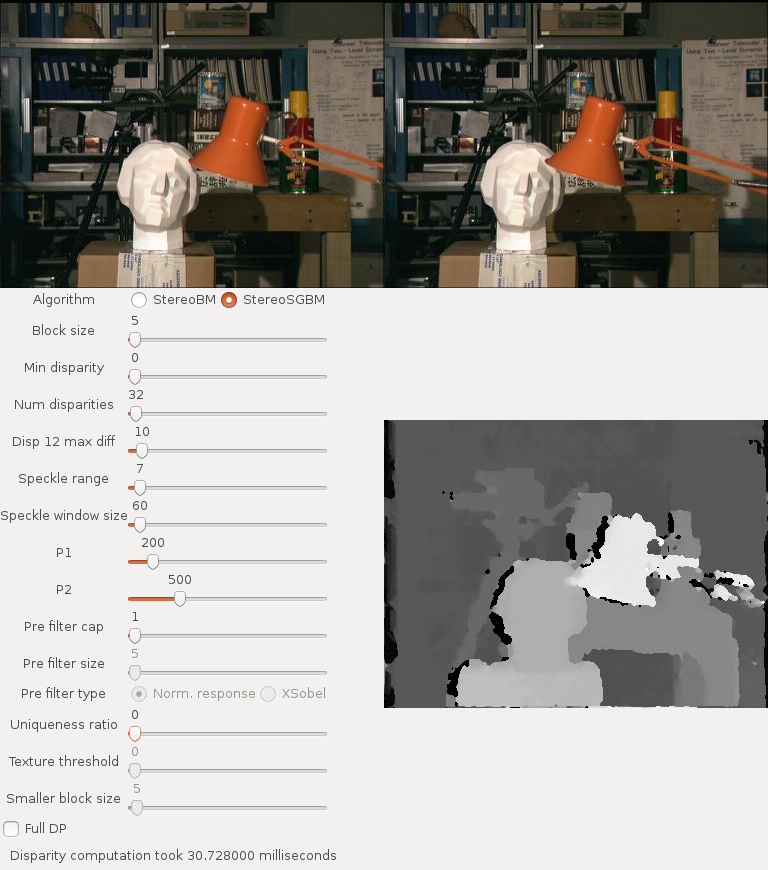
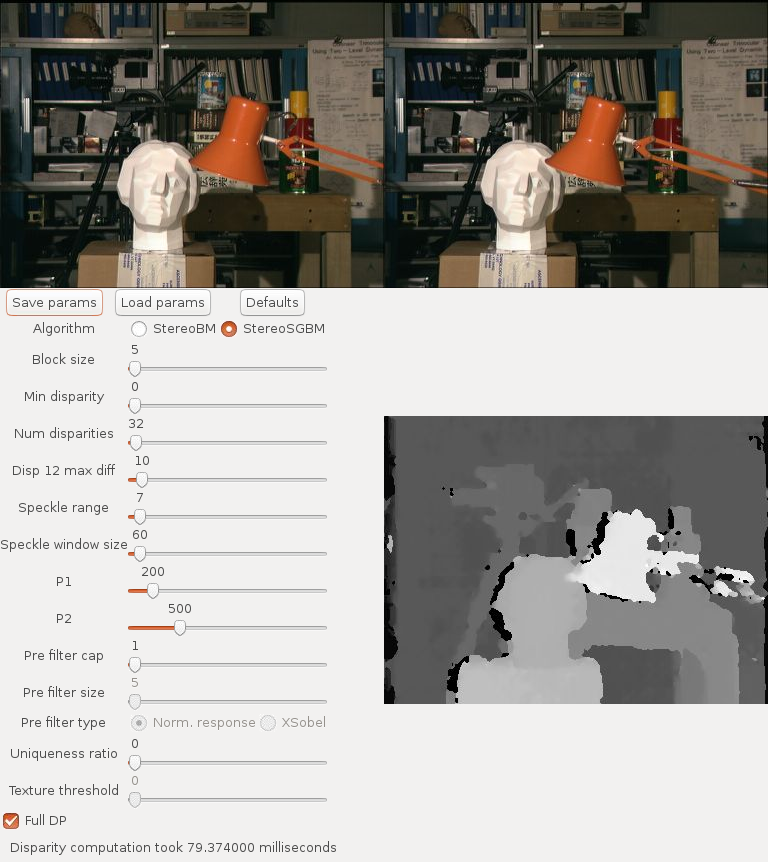
Updated README and screenshot

diff --git a/README.md b/README.md
@@ -8,6 +8,7 @@ This is a simple little GTK application that can be used to tune parameters for 
 
 ## New features
 - **New algorithms:** this application supports both the StereoBM and StereoSGBM algorithms
+- **Save and load parameters:** save your settings to a YAML or XML file that can be read by the `read` method of `StereoBM` or `StereoSGBM`. The same file can be used to restore the parameters on the Tuner.
 - **Tooltips:** the parameter labels now display tooltips explaining them. Some of them were taken from the OpenCV documentation, and the ones that are not explained there were taken from somewhere else.
 - **Execution time:** a (not very useful) indicator of the algorithm execution time on the status bar
 - **New Glade file:** the Glade file was recreated from scratch and works with the recent versions of Glade.
@@ -16,7 +17,7 @@ This is a simple little GTK application that can be used to tune parameters for 
 ## Installation
 Make sure you have GTK3.0, GModule2.0 and OpenCV3.0 installed on your system, as well as a C++ compiler. Then, execute the following:
 
-    wget  https://github.com/guimeira/stereo-tuner/releases/download/v0.1/stereo-tuner.tar.gz
+    wget https://github.com/guimeira/stereo-tuner/releases/download/v0.2/stereo-tuner.tar.gz
     tar zxvf stereo-tuner.tar.gz
     cd StereoTuner
     make
@@ -34,10 +35,16 @@ Make sure your images are undistorted and rectified.
 There's a lot of stuff that I'd like to do to improve this application, but I'm not sure if/when I'll have time to do that. Here's a list of new features that could be interesting:
 - Select left and right images on the GUI
 - Use other sources (webcams, video files, etc)
-- Save the parameters in the format that can be loaded by the `read` method of `StereoBM` and `StereoSGBM`
-- Read parameters in that same format
+- **[Done!]** Save the parameters in the format that can be loaded by the `read` method of `StereoBM` and `StereoSGBM`
+- **[Done!]** Read parameters in that same format
 - Binary releases (.deb, .rpm, maybe even Windows)
+- Do the heavy processing on a separate thread to avoid freezing the interface
+- Refactor code to avoid repetitions
 - Add support for other stereo-related stuff such as camera calibration, rectification, undistortion, etc, and then give this application some fancy name
 
 ## Bugs, issues, new features
 Please, feel free to open an issue if you find a bug or you have a feature request. You can also fork this project and submit a pull request.
+
+## Changelog
+- **v0.2:** Added load and save features.
+- **v0.1:** First version.
